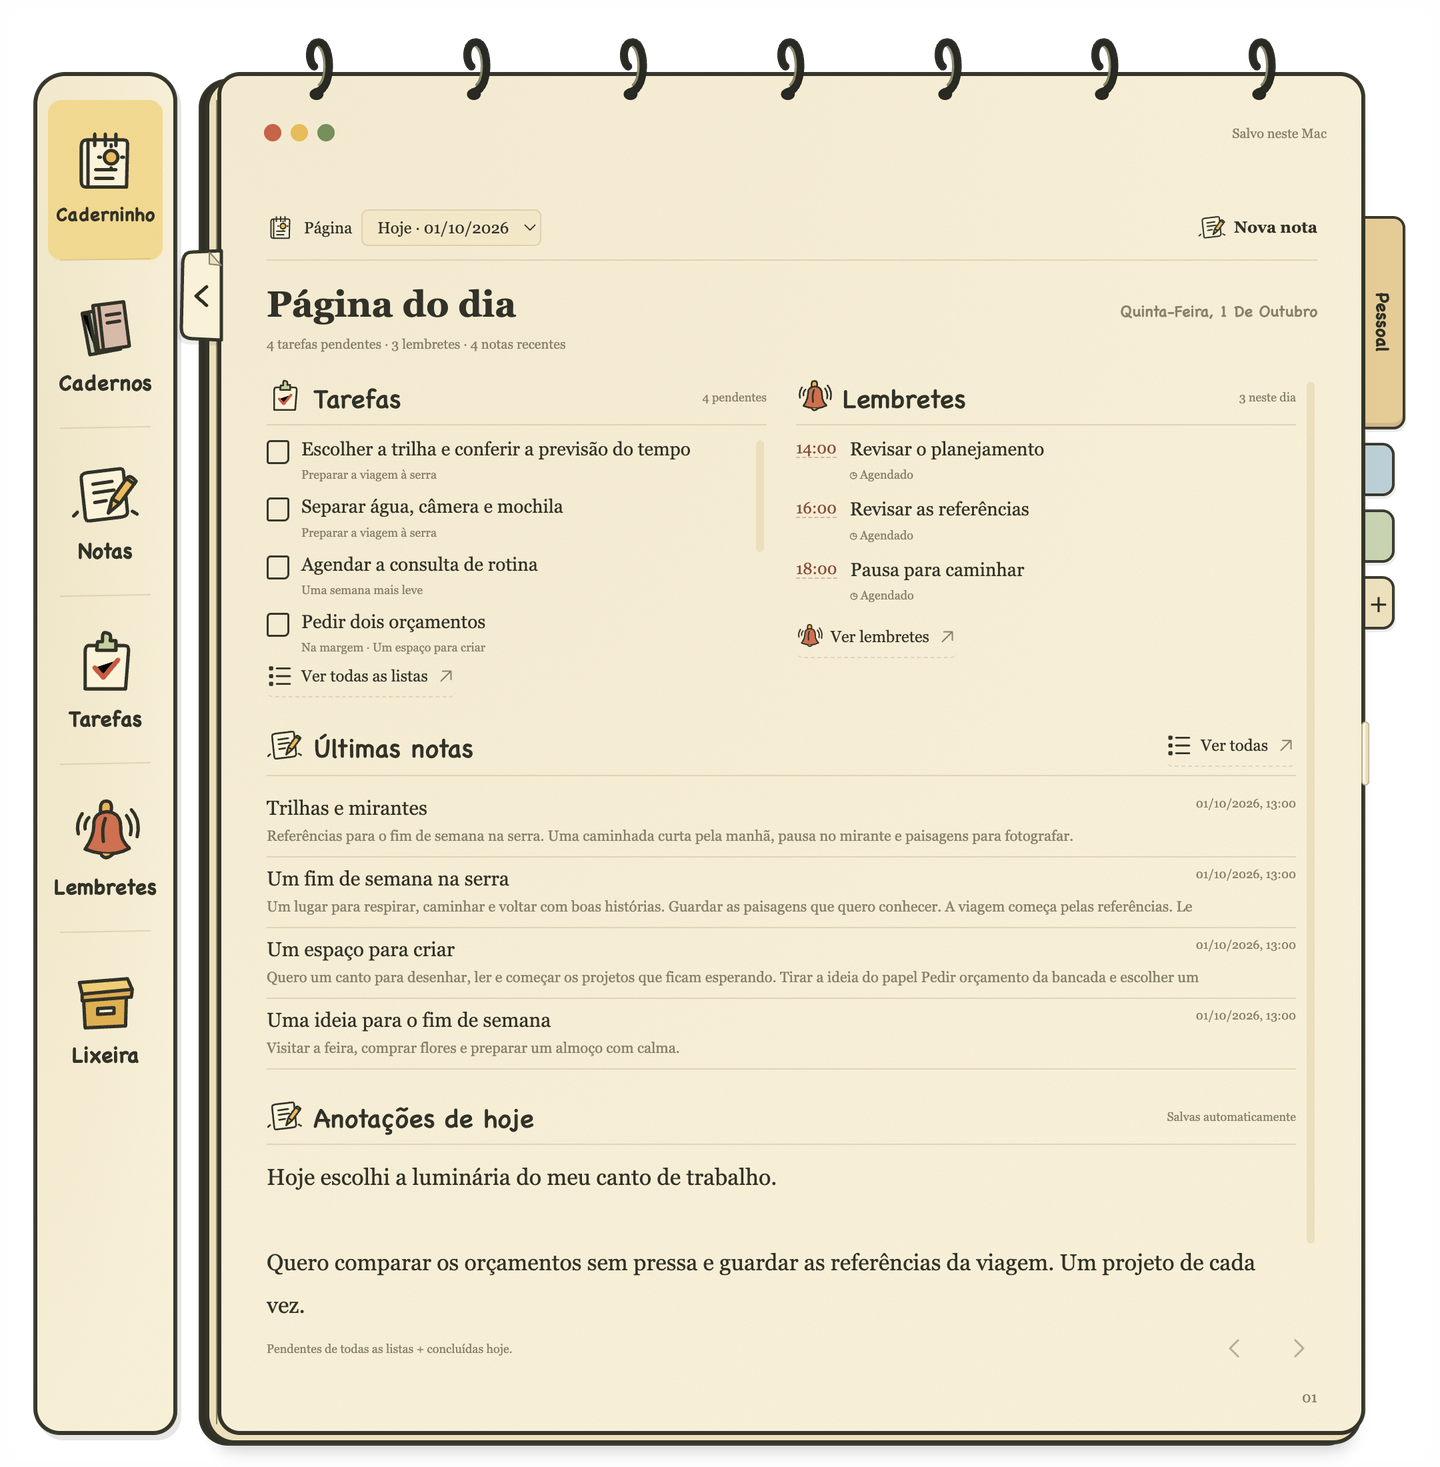
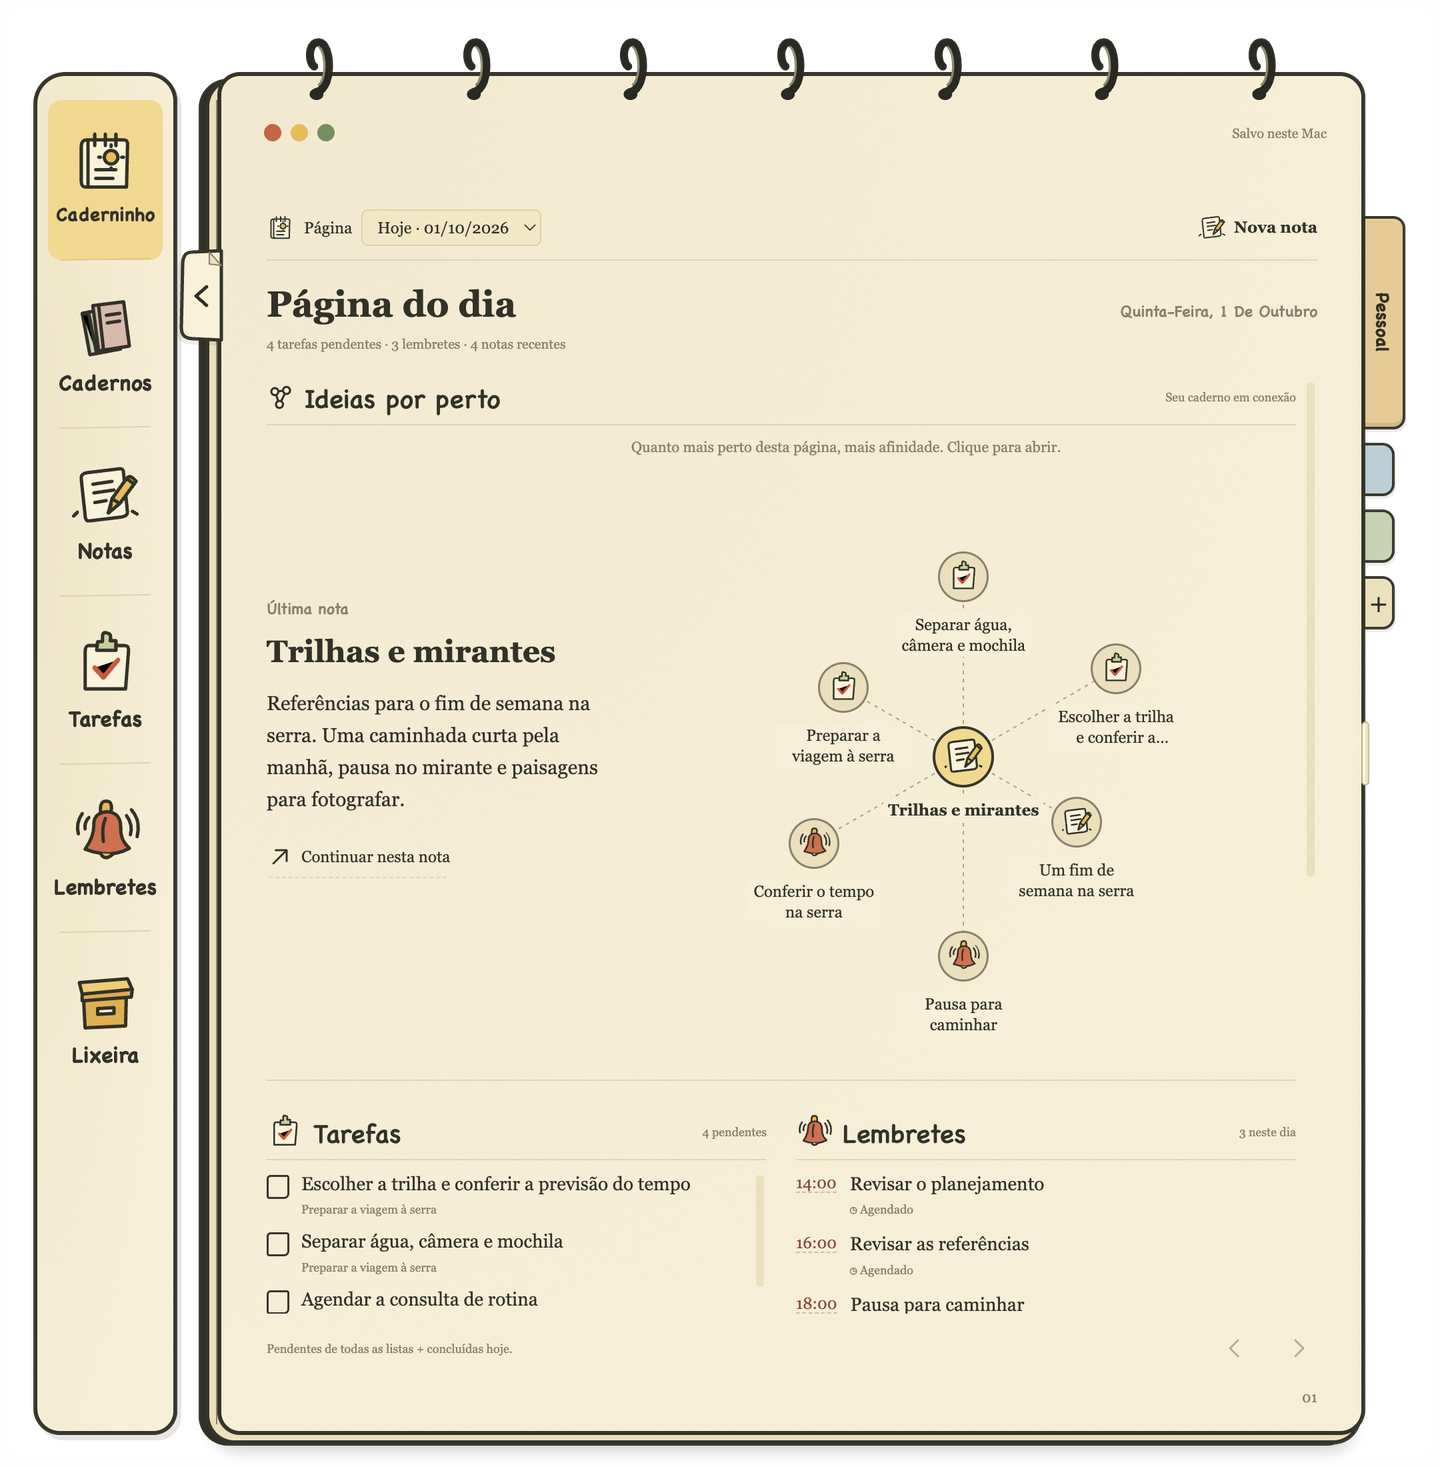
Show latest note and related graph on daily home

diff --git a/related-ui.js b/related-ui.js
@@ -1,12 +1,12 @@
 /* Related pages: view component. Ranking, OCR and inference stay in the main process. */
-let relatedRequest=0,relatedTimer,relatedFocus=null;
+let relatedRequest=0,homeRelatedRequest=0,relatedTimer,relatedFocus=null;
 const relatedGraphIcon='<svg viewBox="0 0 24 24" aria-hidden="true" stroke="currentColor" stroke-width="1.8"><path d="M7 7L17 6M7 7L11 18M17 6L11 18" fill="none" stroke="currentColor" stroke-width="1.8"/><circle cx="7" cy="7" r="3"/><circle cx="17" cy="6" r="3"/><circle cx="11" cy="18" r="3"/></svg>';
 function orderRelated(results){return [...results].sort((a,b)=>b.score-a.score||a.id.localeCompare(b.id));}
 function refreshRelatedSoon(){clearTimeout(relatedTimer);relatedTimer=setTimeout(refreshRelated,300);}
 async function refreshRelated(){
  const request=++relatedRequest,note=['notes','tasks','reminders'].includes(view)?currentNote():null;
  const footer=$('#footer-label');footer.classList.add('related-footer');
- if(!note||!$('#related-open')){footer.replaceChildren();delete footer.dataset.connections;return;}
+ if(!note||!$('#related-open')){footer.replaceChildren();delete footer.dataset.connections;if(view==='home')await refreshHomeRelated();return;}
  try {
   const data=await window.notebook.related(note.id);
   data.results=orderRelated(data.results);
@@ -30,18 +30,32 @@ async function openRelated(){
  $('#related-content').innerHTML='<p class="related-empty" role="status">À procura de conexões neste caderno…</p>';
  await refreshRelated();
 }
-function renderRelatedGraph(note,data){
- const host=$('#related-content');
+function renderRelatedGraph(note,data,host=$('#related-content'),{openCenter=false}={}){
  if(!data.results.length){
   const text=data.status==='error'?'Não foi possível concluir a análise local. Suas páginas continuam salvas.':data.status==='loading'?'Preparando o modelo local. O primeiro uso baixa os arquivos; suas páginas ficam neste Mac.':data.status==='indexing'?'Lendo as páginas deste caderno… As conexões aparecem aqui quando estiverem prontas.':'Ainda não encontramos conexões relevantes para esta página.';
-  host.innerHTML=`<div class="related-empty">${relatedGraphIcon}<p role="status">${text}</p>${data.status==='error'?'<button id="related-retry" class="primary">Tentar novamente</button>':''}</div>`;
-  if($('#related-retry'))$('#related-retry').onclick=()=>window.notebook.relatedRetry();return;
+  host.innerHTML=`<div class="related-empty">${relatedGraphIcon}<p role="status">${text}</p>${data.status==='error'?'<button data-related-retry class="primary">Tentar novamente</button>':''}</div>`;
+  if(host.querySelector('[data-related-retry]'))host.querySelector('[data-related-retry]').onclick=()=>window.notebook.relatedRetry();return;
  }
  // Stable angular slots; equal scaling on both axes preserves affinity distances.
  const nodes=[...data.results].sort((a,b)=>a.id.localeCompare(b.id));
  const points=nodes.map((node,i)=>{const angle=-Math.PI/2+i*2*Math.PI/nodes.length;const radius=125+(1-Math.max(0,Math.min(1,node.score)))*200;return {...node,x:320+Math.cos(angle)*radius,y:320+Math.sin(angle)*radius};});
- host.innerHTML=`<p class="related-caption">Quanto mais perto desta página, mais afinidade. Clique para abrir.</p><div class="related-graph" aria-label="Conexões desta página"><svg viewBox="0 0 640 640" class="related-edges" aria-hidden="true">${points.map(p=>`<path d="M320 320L${p.x} ${p.y}"/>`).join('')}</svg><div class="related-node related-center" style="left:50%;top:50%">${icon(note.type)}<strong>${escape(note.title||'Sem título')}</strong><small>Esta página</small></div>${points.map(p=>`<button class="related-node" data-related-id="${escape(p.id)}" style="left:${p.x/640*100}%;top:${p.y/640*100}%" aria-label="Abrir ${escape(p.title)}">${icon(p.type)}<span>${escape(p.title)}</span></button>`).join('')}</div>`;
- host.querySelectorAll('[data-related-id]').forEach(button=>button.onclick=async()=>{const target=points.find(p=>p.id===button.dataset.relatedId);$('#related-dialog').close();await openRelatedPage(target);});
+ host.innerHTML=`<p class="related-caption">Quanto mais perto desta página, mais afinidade. Clique para abrir.</p><div class="related-graph" aria-label="Conexões desta página"><svg viewBox="0 0 640 640" class="related-edges" aria-hidden="true">${points.map(p=>`<path d="M320 320L${p.x} ${p.y}"/>`).join('')}</svg><${openCenter?'button type="button"':'div'} class="related-node related-center" style="left:50%;top:50%" ${openCenter?'aria-label="Abrir última nota"':''}>${icon(note.type)}<strong>${escape(note.title||'Sem título')}</strong><small>${openCenter?'Última nota':'Esta página'}</small></${openCenter?'button':'div'}>${points.map(p=>`<button class="related-node" data-related-id="${escape(p.id)}" style="left:${p.x/640*100}%;top:${p.y/640*100}%" aria-label="Abrir ${escape(p.title)}">${icon(p.type)}<span>${escape(p.title)}</span></button>`).join('')}</div>`;
+ if(openCenter)host.querySelector('.related-center').onclick=()=>openRelatedPage({noteId:note.id});
+ host.querySelectorAll('[data-related-id]').forEach(button=>button.onclick=async()=>{const target=points.find(p=>p.id===button.dataset.relatedId);if(host===$('#related-content'))$('#related-dialog').close();await openRelatedPage(target);});
+}
+async function refreshHomeRelated(){
+ let host=$('#home-related-content');const note=latestHomeNote(),request=++homeRelatedRequest;
+ if(view!=='home'||!host||!note)return;
+ if(host.dataset.noteId!==note.id){host.closest('.home-connections').outerHTML=homeRelatedSection();bindHomePanels();host=$('#home-related-content');}
+ try{
+  const data=await window.notebook.related(note.id);
+  if(request!==homeRelatedRequest||view!=='home'||!host.isConnected||host.dataset.noteId!==note.id||latestHomeNote()?.id!==note.id)return;
+  const results=orderRelated(data.results).slice(0,6),signature=JSON.stringify([note.title,data.status,results.map(item=>[item.id,item.title,item.score])]);
+  if(host.dataset.connections===signature)return;
+  renderRelatedGraph(note,{...data,results},host,{openCenter:true});host.dataset.connections=signature;
+ }catch{
+  if(request===homeRelatedRequest&&host.isConnected)host.innerHTML='<p class="daily-empty" role="status">As conexões estão indisponíveis por enquanto. Você pode continuar na sua nota.</p>';
+ }
 }
 document.addEventListener('DOMContentLoaded',()=>{
  const dialog=$('#related-dialog');$('#related-close').onclick=()=>dialog.close();

diff --git a/home.js b/home.js
@@ -1,3 +1,13 @@
+function latestHomeNote() {
+  return state.notes.map((note,index)=>({note,index})).filter(({note})=>note.type==='notes'&&!note.trashed&&note.notebookId===state.activeNotebook).sort((a,b)=>new Date(b.note.updated||b.note.created||0)-new Date(a.note.updated||a.note.created||0)||b.index-a.index)[0]?.note;
+}
+function homeRelatedSection() {
+  if(state.daily.day!==state.daily.today)return '';
+  const note=latestHomeNote();
+  if(!note)return '';
+  const excerpt=(note.body||'').replace(/\s+/g,' ').trim();
+  return `<section class="daily-section home-connections" aria-label="Última nota e suas conexões"><div class="daily-section-heading"><h2>${relatedGraphIcon}<span>Ideias por perto</span></h2><span>Seu caderno em conexão</span></div><div class="home-connections-layout"><div class="home-latest"><small>Última nota</small><button type="button" data-home-note="${escape(note.id)}"><h3>${escape(note.title||'Sem título')}</h3><p>${escape(excerpt.slice(0,240)||'Uma página esperando suas ideias.')}${excerpt.length>240?'…':''}</p><span class="daily-link">${actionLabel('open','Continuar nesta nota')}</span></button></div><div id="home-related-content" data-note-id="${escape(note.id)}"><p class="daily-empty" role="status">À procura de conexões…</p></div></div></section>`;
+}
 function dayLabel(day, long = false) {
   return new Intl.DateTimeFormat('pt-BR', long ? { weekday: 'long', day: 'numeric', month: 'long' } : { day: '2-digit', month: '2-digit', year: 'numeric' }).format(new Date(day + 'T12:00:00'));
 }
@@ -24,7 +34,7 @@ function refreshHomePanels() {
 }
 function renderHome() {
   const daily = state.daily, history = daily.day !== daily.today, index = daily.days.indexOf(daily.day);
-  $('#page-content').innerHTML = `<div class="view-toolbar daily-toolbar"><label class="daily-picker">${icon('home')}<span>Página</span> <select id="daily-select" aria-label="Consultar páginas anteriores">${daily.days.map(day => `<option value="${day}" ${day === daily.day ? 'selected' : ''}>${day === daily.today ? 'Hoje · ' : ''}${dayLabel(day)}</option>`).join('')}</select></label><span class="toolbar-right">${history ? `<button id="daily-today">${icon('home')}<span>Voltar a hoje</span></button>` : ''}<button id="new-note" class="add-note toolbar-action" title="Nova nota" aria-label="Nova nota">${icon('notes')}<span>Nova nota</span></button></span></div><div class="daily-heading"><h1>${history ? 'Página anterior' : 'Página do dia'}</h1><span class="daily-date">${escape(dayLabel(daily.day, true))}</span></div><p id="daily-summary" class="daily-summary"></p><div id="daily-overview" class="daily-overview"><div id="daily-panels"></div><section class="daily-section daily-writing"><div class="daily-section-heading"><h2>${icon('notes')}<span>Anotações ${history ? 'daquele dia' : 'de hoje'}</span></h2>${history ? '<span>Guardadas para consulta</span>' : '<span>Salvas automaticamente</span>'}</div><textarea id="daily-body" class="note-body daily-body" aria-label="Anotações da página do dia" placeholder="Um espaço livre para o seu dia…" maxlength="200000" ${history ? 'readonly' : ''}>${escape(daily.body)}</textarea></section></div><div class="daily-bottom"><span>${history ? 'Um retrato do que ficou neste dia.' : 'Pendentes de todas as listas + concluídas hoje.'}</span><div class="note-pager"><button id="daily-prev" aria-label="Dia anterior" ${index >= daily.days.length - 1 ? 'disabled' : ''}>${icon('chevron')}</button><button id="daily-next" aria-label="Dia seguinte" ${index === 0 ? 'disabled' : ''}>${icon('chevron')}</button></div></div>`;
+  $('#page-content').innerHTML = `<div class="view-toolbar daily-toolbar"><label class="daily-picker">${icon('home')}<span>Página</span> <select id="daily-select" aria-label="Consultar páginas anteriores">${daily.days.map(day => `<option value="${day}" ${day === daily.day ? 'selected' : ''}>${day === daily.today ? 'Hoje · ' : ''}${dayLabel(day)}</option>`).join('')}</select></label><span class="toolbar-right">${history ? `<button id="daily-today">${icon('home')}<span>Voltar a hoje</span></button>` : ''}<button id="new-note" class="add-note toolbar-action" title="Nova nota" aria-label="Nova nota">${icon('notes')}<span>Nova nota</span></button></span></div><div class="daily-heading"><h1>${history ? 'Página anterior' : 'Página do dia'}</h1><span class="daily-date">${escape(dayLabel(daily.day, true))}</span></div><p id="daily-summary" class="daily-summary"></p><div id="daily-overview" class="daily-overview">${homeRelatedSection()}<div id="daily-panels"></div><section class="daily-section daily-writing"><div class="daily-section-heading"><h2>${icon('notes')}<span>Anotações ${history ? 'daquele dia' : 'de hoje'}</span></h2>${history ? '<span>Guardadas para consulta</span>' : '<span>Salvas automaticamente</span>'}</div><textarea id="daily-body" class="note-body daily-body" aria-label="Anotações da página do dia" placeholder="Um espaço livre para o seu dia…" maxlength="200000" ${history ? 'readonly' : ''}>${escape(daily.body)}</textarea></section></div><div class="daily-bottom"><span>${history ? 'Um retrato do que ficou neste dia.' : 'Pendentes de todas as listas + concluídas hoje.'}</span><div class="note-pager"><button id="daily-prev" aria-label="Dia anterior" ${index >= daily.days.length - 1 ? 'disabled' : ''}>${icon('chevron')}</button><button id="daily-next" aria-label="Dia seguinte" ${index === 0 ? 'disabled' : ''}>${icon('chevron')}</button></div></div>`;
   $('#page-number').textContent = daily.day.slice(8);
   $('#new-note').onclick = createNote;
   const select = async day => { if (await action('day:select', { day })) renderHome(); };
@@ -32,7 +42,7 @@ function renderHome() {
   $('#daily-prev').onclick = () => select(daily.days[index + 1]); $('#daily-next').onclick = () => select(daily.days[index - 1]);
   if ($('#daily-today')) $('#daily-today').onclick = () => select(daily.today);
   $('#daily-body').oninput = event => action('day:update', { day: daily.day, body: event.target.value });
-  refreshHomePanels(); updateTemporalLabels();
+  refreshHomePanels(); updateTemporalLabels(); refreshHomeRelated();
 }
 window.notebook.onDayUpdated(next => {
   state = next;

diff --git a/tests/related-smoke.js b/tests/related-smoke.js
@@ -29,6 +29,21 @@
   await refreshRelated();
   $('#related-close').click();assert(!$('#related-dialog').open,'Botão fecha a modal');
   await openRelated();await clickAndWait(document.querySelector('[data-related-id]'));assert(!$('#related-dialog').open&&currentNote().id!==source.id,'Conexão abre a página correspondente');
+  await command('view:select',{view:'home'});view='home';render();await refreshHomeRelated();
+  const latest=latestHomeNote(),host=$('#home-related-content');
+  assert(host.dataset.noteId===latest.id&&host.querySelector('.related-center strong').textContent===latest.title,'Home mostra a última nota do caderno no centro do grafo');
+  assert(host.querySelectorAll('[data-related-id]').length===6,'Home mostra até seis conexões');
+  assert($('.home-connections').compareDocumentPosition($('#daily-panels'))&Node.DOCUMENT_POSITION_FOLLOWING,'Grafo aparece antes dos painéis existentes');
+  assert($('#daily-body')&&$('#daily-panels .daily-recent'),'Anotações e notas recentes continuam abaixo');
+  await clickAndWait(host.querySelector('.related-center'));assert(view==='notes'&&currentNote().id===latest.id,'Centro do grafo abre a última nota');
+  await command('view:select',{view:'home'});view='home';render();await refreshHomeRelated();
+  const target=$('#home-related-content [data-related-id]').dataset.relatedId;
+  await clickAndWait($('#home-related-content [data-related-id]'));assert(view!=='home'&&'page:'+currentNote().id===target,'Conexão na home abre a página correspondente');
+  await command('view:select',{view:'home'});view='home';render();await refreshHomeRelated();
+  const emptyHost=$('#home-related-content');renderRelatedGraph(latest,{results:[],status:'ready'},emptyHost,{openCenter:true});assert(emptyHost.textContent.includes('Ainda não encontramos')&&$('#daily-body'),'Home sem conexões mantém conteúdo diário');
+  renderRelatedGraph(latest,{results:[],status:'error'},emptyHost,{openCenter:true});assert(emptyHost.querySelector('[data-related-retry]'),'Falha na home oferece nova tentativa');
+  await command('notebook:create',{name:'Caderno sem notas',description:'',color:'#c5d3ae'});view='home';render();await refreshHomeRelated();assert(!$('.home-connections')&&$('#daily-body'),'Caderno vazio preserva home sem nota de outro caderno');
+  await command('notebook:select',{id:latest.notebookId});view='home';render();await refreshHomeRelated();assert($('#home-related-content').dataset.noteId===latest.id,'Troca de caderno restaura suas próprias conexões');
   await command('note:select',{id:source.id});view='notes';render();await openRelated();
   await new Promise(r=>setTimeout(r,300));
   assert($('#related-dialog').open&&currentNote().id===source.id,'Grafo permanece aberto na página de origem');

diff --git a/style.css b/style.css
@@ -192,3 +192,23 @@ button.related-whisper:focus-visible { outline:2px solid #ab8847; outline-offset
 @media(max-width:1000px){#export-pdf .toolbar-action-label{display:none;}}
 
 .format-menu>button>svg{width:20px;height:20px;flex:none;fill:none;stroke:currentColor;stroke-width:1.7;stroke-linecap:round;stroke-linejoin:round}
+
+.home-connections{padding-bottom:22px;border-bottom:1px solid var(--line);margin-bottom:24px}
+.home-connections .daily-section-heading h2{display:flex;align-items:center;gap:7px}
+.home-connections .daily-section-heading h2>svg{width:21px;height:21px;fill:var(--paper)}
+.home-connections-layout{display:grid;grid-template-columns:minmax(150px,1fr) minmax(0,2fr);align-items:center;gap:24px}
+.home-latest>small{font:12px var(--hand-font);color:var(--muted)}
+.home-latest>button{display:block;width:100%;text-align:left;padding:10px 0}
+.home-latest h3{font:bold 23px/1.3 var(--body-font);margin:0 0 12px;overflow-wrap:anywhere}
+.home-latest p{font:15px/1.6 var(--body-font);margin:0 0 16px;overflow-wrap:anywhere}
+.home-latest>button:hover h3{color:#946f2a}
+.home-latest .daily-link{display:inline-flex;align-items:center;gap:6px}
+.home-connections .related-caption{font:11px/1.5 var(--body-font);margin:0 0 4px}
+.home-connections .related-graph{max-width:440px}
+.home-connections .related-node{width:100px;font-size:12px;height:38px}
+.home-connections .related-node .small-icon{width:38px;height:38px;padding:5px}
+.home-connections .related-center{width:120px;height:46px;cursor:pointer}
+.home-connections .related-center .small-icon{width:46px;height:46px}
+.home-connections .related-center small{display:none}
+.home-connections .related-empty{min-height:240px;font-size:14px}
+@media(max-width:760px){.home-connections-layout{grid-template-columns:1fr;gap:12px}.home-latest h3{font-size:21px}.home-latest p{margin-bottom:8px}.home-connections .related-graph{max-width:440px}.home-connections .daily-section-heading>span{display:none}}

diff --git a/.claude/napkin.md b/.claude/napkin.md
@@ -36,7 +36,7 @@
 
 ## User Directives
 1. **[2026-10-01] Daily overview and temporal records**
-   Do instead: open on Caderninho with pending tasks, today's completions/reminders, recent notes and daily writing; preserve previous snapshots read-only. Store creation/update/check/uncheck/deletion events, clear deleted_at on restore, keep unknown legacy dates null and show autosaving as inline text.
+   Do instead: open on Caderninho with the latest updated note from the active notebook and its clickable related graph above the daily panels; show this live section only for today. Keep pending tasks, today's completions/reminders, recent notes and daily writing; preserve previous snapshots read-only. Store creation/update/check/uncheck/deletion events, clear deleted_at on restore, keep unknown legacy dates null and show autosaving as inline text.
 
 2. **[2026-10-01] Reference style and motion**
    Do instead: use illustrated vintage stationery with unruled writing pages, a narrow vertical icon menu, paper tabs instead of a face/arms (no top ribbon), and an upward page flip when changing notes. Maximize to the available screen height, centered at up to 1200px wide; restore size/position and support top double-click. Provide edge/corner resize plus a visible right grip.

diff --git a/README.md b/README.md
@@ -49,9 +49,9 @@ A referência fica junto da ideia que ela despertou. E, quando surgir algo para 
 
 ## O dia tem uma página própria
 
-Tarefas das suas listas e das margens das notas se encontram com os lembretes e as páginas recentes. Você acompanha o dia sem precisar abrir cada projeto para descobrir o que ficou pendente.
+No topo, retome a última nota do caderno e explore as ideias ligadas a ela em um grafo. Logo abaixo, tarefas das suas listas e das margens das notas se encontram com os lembretes e as páginas recentes. Você acompanha o dia sem precisar abrir cada projeto para descobrir o que ficou pendente.
 
-![Página do dia reunindo tarefas das listas e da margem de uma nota, lembretes e um registro diário](docs/images/pagina-do-dia.png)
+![Página do dia com a última nota e seu grafo de conexões no topo, seguido das tarefas e lembretes](docs/images/pagina-do-dia.png)
 
 Há espaço para escrever sobre o dia. Amanhã, a página de hoje continua disponível para consulta — suas anotações e o retrato daquele momento ficam guardados.
 
